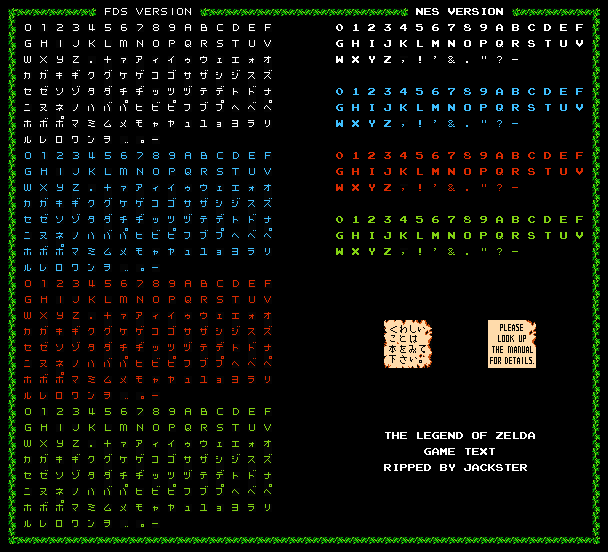
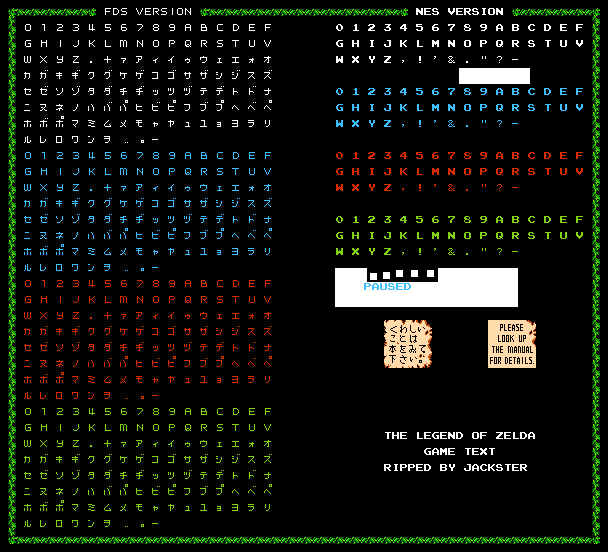
paused implemented

Changed region(s): [[0.5312, 0.462, 0.875, 0.5543], [0.75, 0.1232, 0.875, 0.154]]

diff --git a/ZeldaGame.cs b/ZeldaGame.cs
@@ -27,38 +27,28 @@ namespace CSE3902_Game_Sprint0
 
     public class ZeldaGame : Game
     {
-        //GENERAL STUFF
         private GraphicsDeviceManager _graphics;
         private SpriteBatch _spriteBatch;
-        //CONTROLLERS
         public List<IController> controllerList = new List<IController>();
-        //UTILITY STORAGE
         public GameUtility util;
-        //SPRITE SHEETS
         public Dictionary<string, Texture2D> spriteSheets = new Dictionary<string, Texture2D>();
-        //SOUNDS
         public Song song;
         public Dictionary<string, SoundEffect> sounds = new Dictionary<string, SoundEffect>();
-        //SPRITE FACTORIES
         public EnemySpriteFactory enemySpriteFactory;
         public ProjectileSpriteFactory projectileSpriteFactory;
         public HudSpriteFactory hudSpriteFactory;
-        //STATE MACHINES
         public LinkStateMachine linkStateMachine;
         public BombStateMachine bombStateMachine;
-        //LINK
         public Classes.Link link;
-        //COLLISIONS
         public ProjectileHandler projectileHandler;
         public CollisionManager collisionManager;
-        //ROOMS
         public List<Room> roomList;
         public Dictionary<int, int[]> neighbors;
         public Room currentRoom;
         public Room oldRoom;
-        //GAME STATES
         public IGameState currentMainGameState;
         public IGameState currentGameState;
+        public bool paused = false;
 
         public ZeldaGame()
         {
@@ -75,23 +65,16 @@ namespace CSE3902_Game_Sprint0
         protected override void Initialize()
         {
             base.Initialize();
-            //COLLISIONS
             collisionManager = new CollisionManager();
-            //PROJECTILES
             projectileSpriteFactory = new ProjectileSpriteFactory(this);
             projectileHandler = new ProjectileHandler(this);
-            //LINK
             link = new Classes.Link(this);
             linkStateMachine = new LinkStateMachine(link);
             link.SetState(linkStateMachine);
-            //HUD
             hudSpriteFactory = new HudSpriteFactory(this);
-            //ENEMIES
             enemySpriteFactory = new EnemySpriteFactory(this);
-            //CONTROLLERS
             controllerList.Add(new CKeyboard(this));
             controllerList.Add(new CMouse(this));
-            //ROOMS
             neighbors = Parser.ParseNeighborCSV();
             roomList = new List<Room>();
             /* 18 ROOMS */
@@ -108,7 +91,6 @@ namespace CSE3902_Game_Sprint0
                 }
             }
             currentRoom.Initialize();
-            //GAME STATE
             currentMainGameState = new MainState(this, currentRoom);
             currentGameState = currentMainGameState;
             //BACKGROUND MUSIC
@@ -119,7 +101,6 @@ namespace CSE3902_Game_Sprint0
         protected override void LoadContent()
         {
             _spriteBatch = new SpriteBatch(GraphicsDevice);
-            //SPRITE SHEETS
             spriteSheets.Add("Link", Content.Load<Texture2D>("NES - The Legend of Zelda - Link"));
             spriteSheets.Add("HUD", Content.Load<Texture2D>("NES - The Legend of Zelda - HUD & Pause Screen"));
             spriteSheets.Add("ItemsAndWeapons", Content.Load<Texture2D>("NES - The Legend of Zelda - Items & Weapons"));
@@ -128,7 +109,8 @@ namespace CSE3902_Game_Sprint0
             spriteSheets.Add("Bosses", Content.Load<Texture2D>("NES - The Legend of Zelda - Bosses"));
             spriteSheets.Add("DungeonBackgrounds", Content.Load<Texture2D>("Level 1 (Eagle)"));
             spriteSheets.Add("DungeonTileset", Content.Load<Texture2D>("NES - The Legend of Zelda - Dungeon Tileset"));
-            //SOUNDS
+            spriteSheets.Add("Fonts", Content.Load<Texture2D>("NES - The Legend of Zelda - Fonts"));
+
             song = Content.Load<Song>("04 LabyrinthLooped");
             sounds.Add("arrowBoomerang", Content.Load<SoundEffect>("LOZ_Arrow_Boomerang"));
             sounds.Add("bombBlow", Content.Load<SoundEffect>("LOZ_Bomb_Blow"));
@@ -162,31 +144,32 @@ namespace CSE3902_Game_Sprint0
             if (GamePad.GetState(PlayerIndex.One).Buttons.Back == ButtonState.Pressed || Keyboard.GetState().IsKeyDown(Keys.Escape))
                 Exit();
 
-            //COLLISIONS
             currentGameState.UpdateCollisions();
-            //GENERAL
             base.Update(gameTime);
-            //GAME STATE
             currentGameState.Update();
             if (util.numLives <= 0 && link.linkState.currentState != LinkStateMachine.CurrentState.dying)
             {
                 MediaPlayer.Stop();
                 currentGameState = new DeathState(this);
             }
+            if (paused)
+            {
+                MediaPlayer.Pause();
+                currentGameState = new PauseState(this);
+            }
+            else if (!paused && currentGameState.GetType() == typeof(PauseState))
+            {
+                MediaPlayer.Resume();
+                currentGameState = currentMainGameState;
+            }
         }
-
-        /*
-         * Change room smooothly from room number util.roomNumber to room number newRoom
-         */
         public void changeRoom(int newRoom, Collision.Direction direction)
         {
             util.keyPressedTempVariable = true;
             oldRoom = currentRoom;
-            //CLEAR COLLISIONS
             collisionManager.ClearNotLink();
             projectileHandler.Clear();
             util.roomNumber = newRoom;
-            //FIND NEW ROOM
             foreach (Room r in roomList)
             {
                 if (r.getRoomNumber() == newRoom)
@@ -194,18 +177,14 @@ namespace CSE3902_Game_Sprint0
                     currentRoom = r;
                 }
             }
-            //TRANSITION STATE
             currentMainGameState = new MainState(this, currentRoom);
             currentGameState = new TransitionState(this, oldRoom, currentRoom, direction);
         }
 
         protected override void Draw(GameTime gameTime)
         {
-            //BLACK BACKGROUND
             GraphicsDevice.Clear(Color.Black);
-            //GENERAL
             base.Draw(gameTime);
-            //GAME STATE
             currentGameState.Draw();
         }
     }

diff --git a/Classes/GameState/PauseState.cs b/Classes/GameState/PauseState.cs
@@ -1,25 +1,38 @@
-using System;
+using CSE3902_Game_Sprint0.Classes.Scripts;
+using System;
 using System.Collections.Generic;
 using System.Text;
+using CSE3902_Game_Sprint0.Classes.Header;
+using Microsoft.Xna.Framework;
+using Microsoft.Xna.Framework.Graphics;
 
 namespace CSE3902_Game_Sprint0.Classes.GameState
 {
     public class PauseState : IGameState
     {
         private ZeldaGame game;
+        private ISprite texture;
+        private Texture2D pausedSpriteSheet;
+        private float itemDepth = 0.4f;
+        private const int HEIGHT = 7;
+        private const int WIDTH = 47;
         public PauseState(ZeldaGame game)
         {
             this.game = game;
+            game.spriteSheets.TryGetValue("Fonts", out pausedSpriteSheet);
+            texture = new UniversalSprite(game, pausedSpriteSheet, new Rectangle(364, 283, WIDTH, HEIGHT), Color.White, SpriteEffects.None, new Vector2(1, 1), 10, itemDepth);
         }
 
         void IGameState.Draw()
         {
-            
+            texture.Draw(new Vector2(game.GraphicsDevice.Viewport.Width /2 - WIDTH, game.GraphicsDevice.Viewport.Height / 2 - HEIGHT));
         }
-
         void IGameState.Update()
         {
-            
+            foreach (IController controller in game.controllerList) 
+            {
+                controller.Update();
+            }
         }
 
         void IGameState.UpdateCollisions()

diff --git a/Classes/Controllers/GameCommands/pause.cs b/Classes/Controllers/GameCommands/pause.cs
@@ -7,16 +7,14 @@ using Microsoft.Xna.Framework.Graphics;
     namespace CSE3902_Game_Sprint0.Classes.Controllers.GameCommands{
     public class pause : ICommand
     {
-        public pause()
+        private ZeldaGame game;
+        public pause(ZeldaGame game)
         {
-
+            this.game = game;
         }
         public void Execute()
         {
-
+            game.paused = !game.paused;
         }
-
     }
-
-
 }

diff --git a/Classes/Controllers/CKeyboard.cs b/Classes/Controllers/CKeyboard.cs
@@ -55,7 +55,7 @@ namespace CSE3902_Game_Sprint0
 
             keyBinds.Add(Keys.Q, new ShutDownGame(game));
             keyBinds.Add(Keys.R, new Reset(game));
-            keyBinds.Add(Keys.P, new pause());
+            keyBinds.Add(Keys.P, new pause(game));
         }
 
         public void Update()
